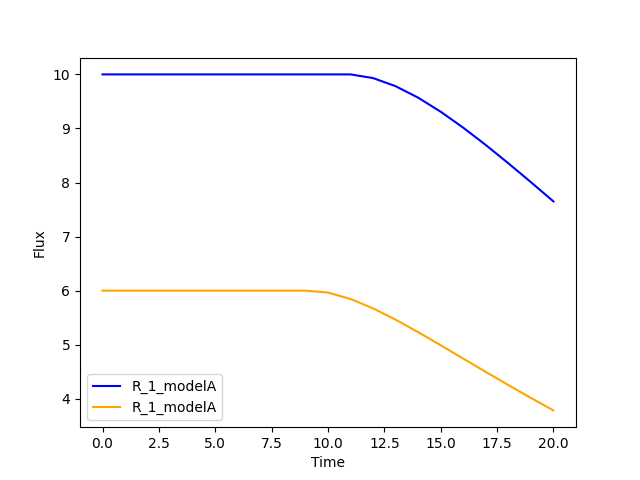
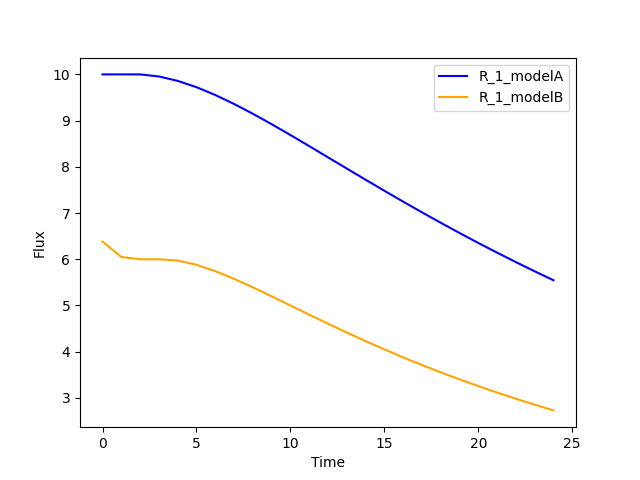
work on docs

diff --git a/src/dcFBA/DynamicModels/EndPointFBA.py b/src/dcFBA/DynamicModels/EndPointFBA.py
@@ -648,7 +648,7 @@ class EndPointFBA(DynamicModelBase):
                 0.0,
                 components=[
                     (1.0, f"BM_{mid}_exchange_final", "linear"),
-                    (-1.0 * (Xm + Xin), f"Phi_{mid}", "linear"),
+                    (-1.0 * Xm, f"Phi_{mid}", "linear"),
                 ],
             )
 
